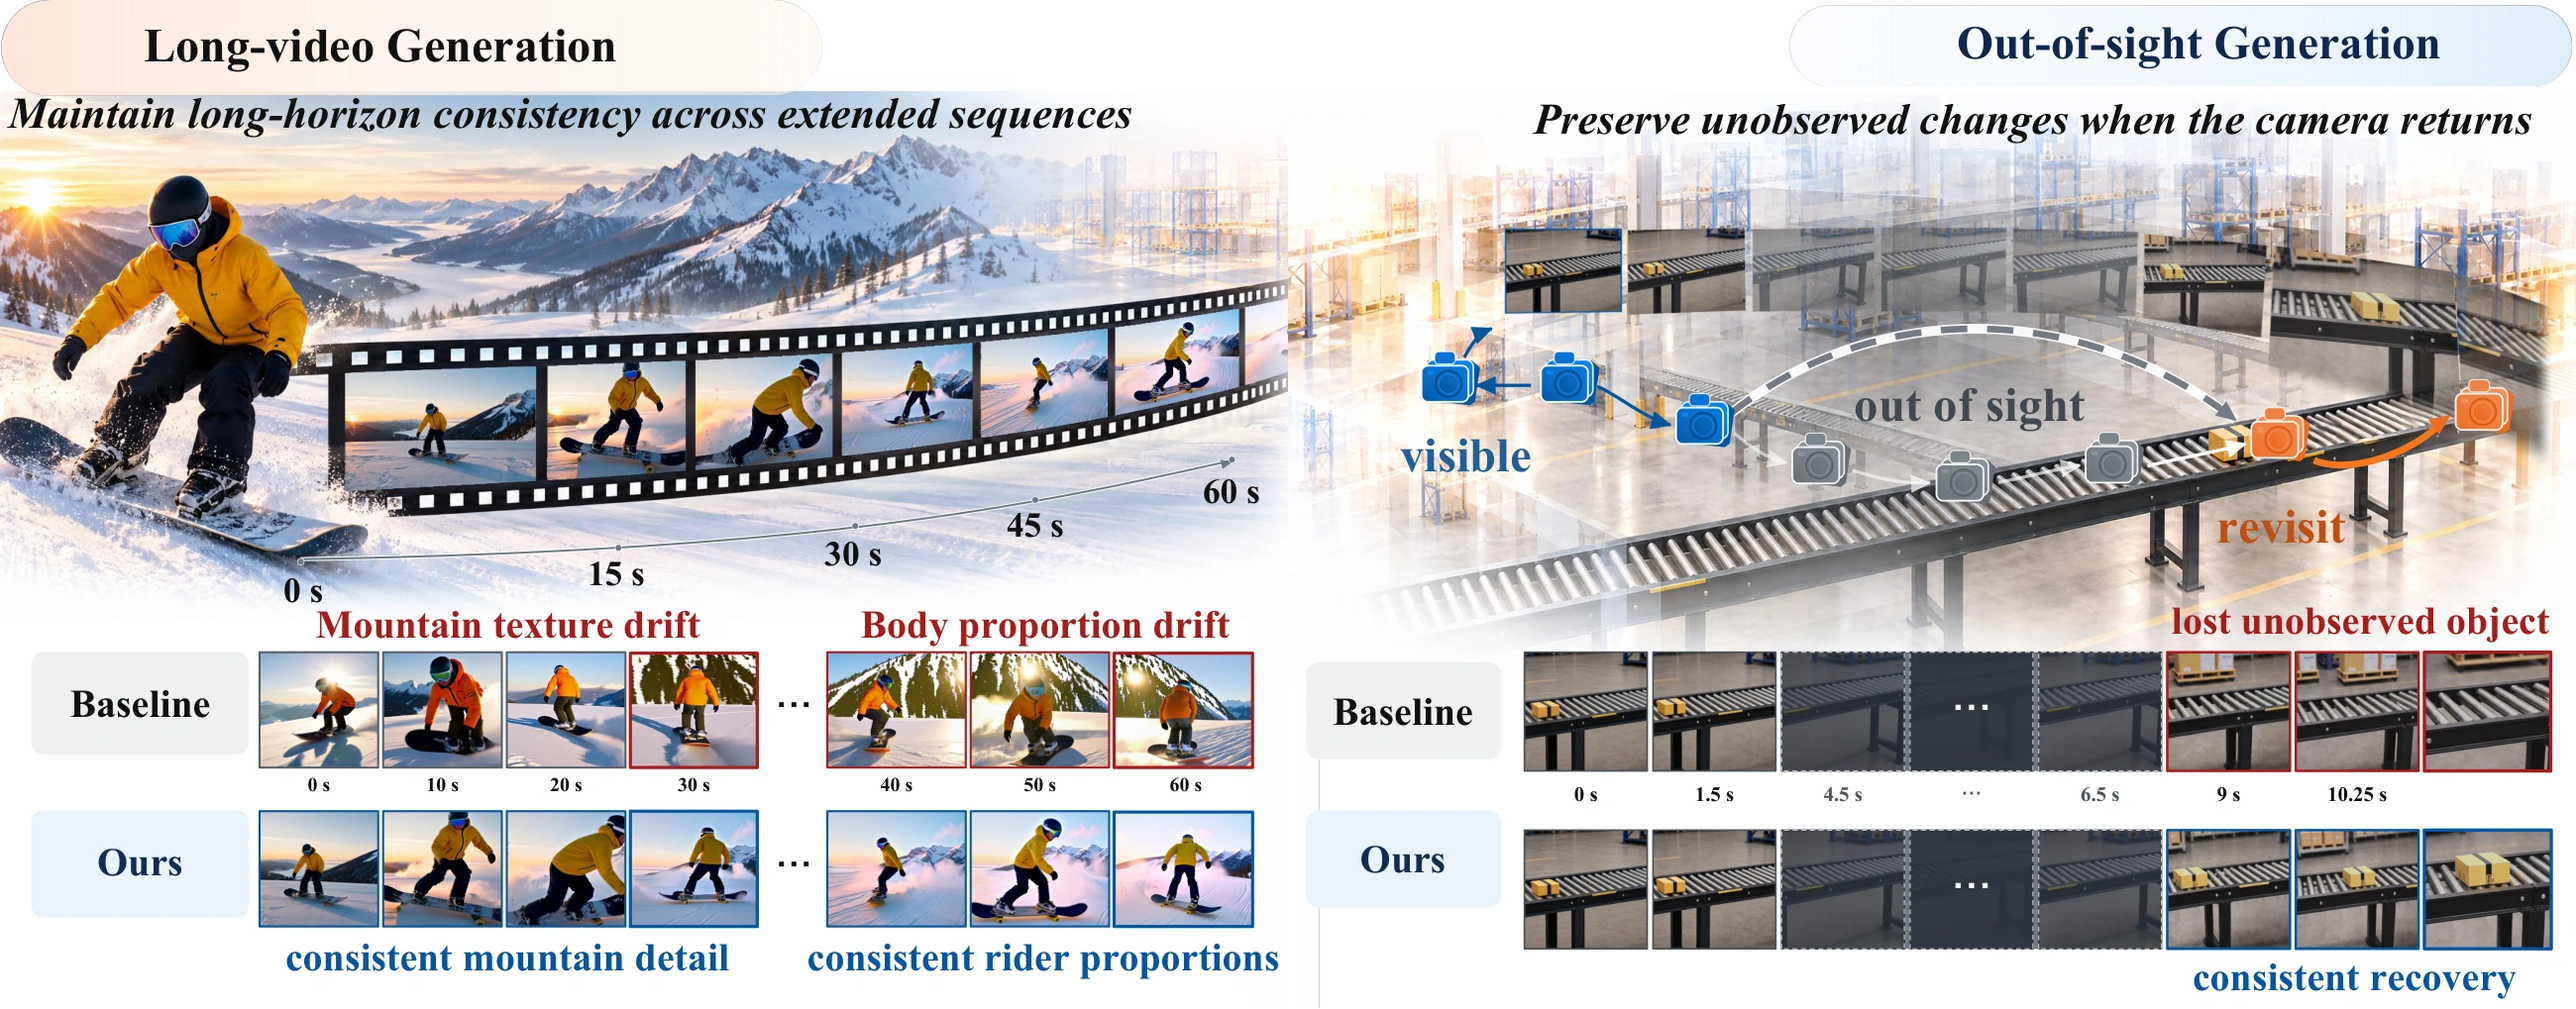
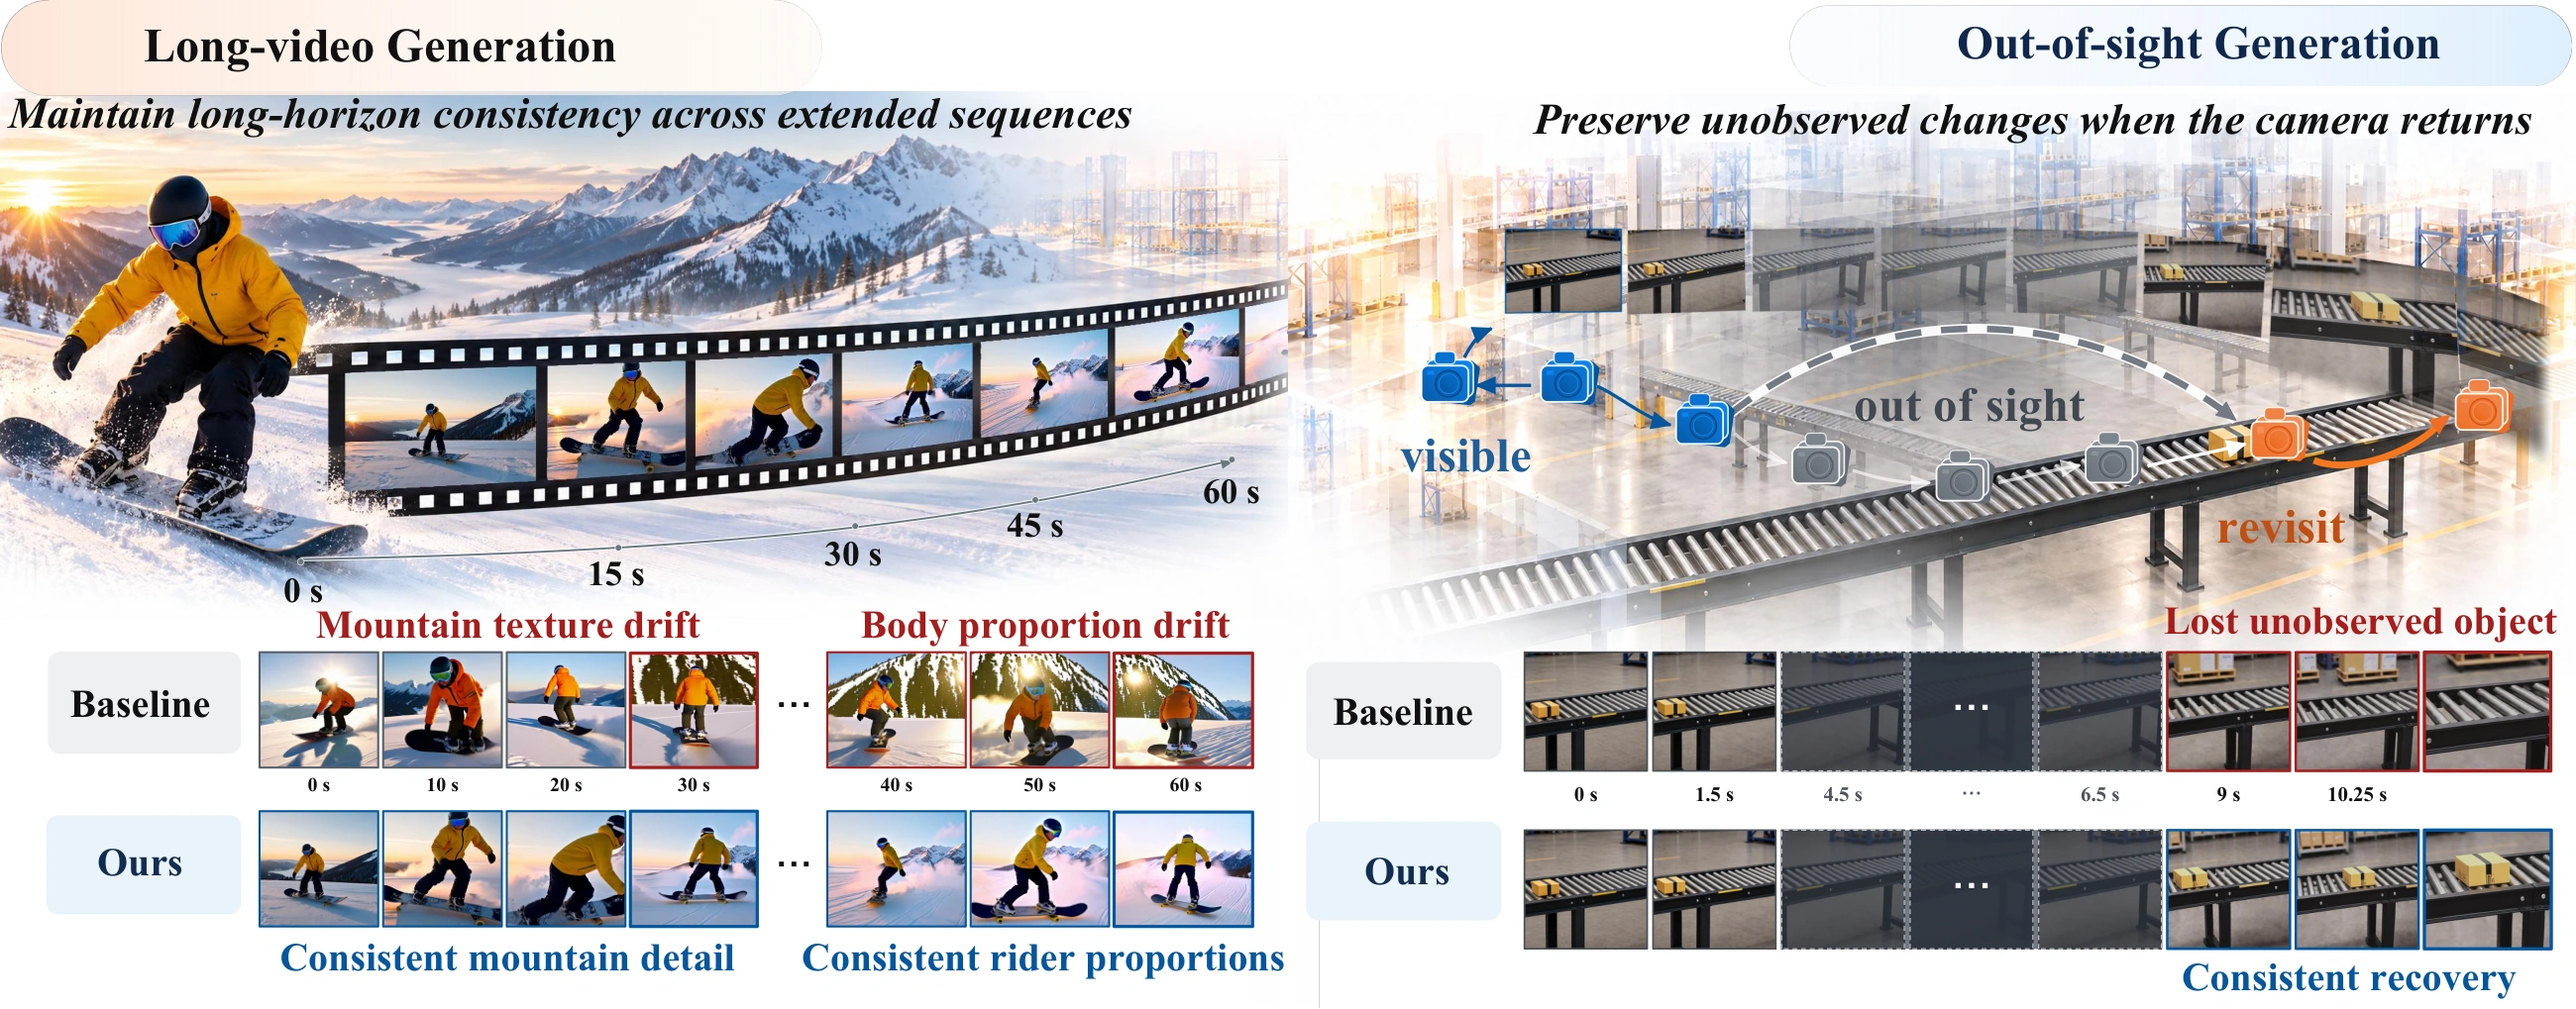
Refresh the homepage teaser from the updated paper figure

diff --git a/index.html b/index.html
@@ -8,7 +8,7 @@
   <meta property="og:title" content="History Forcing">
   <meta property="og:description" content="Distilling History-Dependent Continuations for Long-Horizon Video World Models">
   <meta property="og:type" content="website">
-  <meta property="og:image" content="https://xzxxntxdy.github.io/History-Forcing-Project-Page/assets/images/teaser.webp">
+  <meta property="og:image" content="https://xzxxntxdy.github.io/History-Forcing-Project-Page/assets/images/teaser.webp?v=ec9c76cc55c3">
   <meta property="og:url" content="https://xzxxntxdy.github.io/History-Forcing-Project-Page/">
   <link rel="canonical" href="https://xzxxntxdy.github.io/History-Forcing-Project-Page/">
   <title>History Forcing | Long-Horizon Video World Models</title>
@@ -36,14 +36,14 @@
       <p class="author-notes">* Equal contribution &nbsp; † Corresponding author</p>
       <div class="hero-actions"><span class="button primary paper-pending" aria-disabled="true"><svg viewBox="0 0 24 24" aria-hidden="true"><path d="M14 3H6a2 2 0 0 0-2 2v14a2 2 0 0 0 2 2h12a2 2 0 0 0 2-2V9zM14 3v6h6M8 13h8M8 17h6"/></svg>Paper <small>Coming soon</small></span><a class="button" href="#long-videos"><span aria-hidden="true">▷</span> Explore videos</a><a class="button" href="#citation"><span aria-hidden="true">{ }</span> BibTeX</a></div>
       <figure class="hero-teaser" id="teaser">
-        <a class="teaser-artwork" href="assets/images/teaser.webp" target="_blank" rel="noopener" aria-label="Open the full-size History Forcing teaser">
-          <img class="teaser-wide" src="assets/images/teaser.webp" alt="History Forcing compared with the baseline: consistent snowboarder appearance and mountain scenery over 60 seconds, and consistent object states when the camera returns to a conveyor belt." width="2600" height="1019" fetchpriority="high" decoding="async">
+        <a class="teaser-artwork" href="assets/images/teaser.webp?v=ec9c76cc55c3" target="_blank" rel="noopener" aria-label="Open the full-size History Forcing teaser">
+          <img class="teaser-wide" src="assets/images/teaser.webp?v=ec9c76cc55c3" alt="History Forcing compared with the baseline: consistent snowboarder appearance and mountain scenery over 60 seconds, and consistent object states when the camera returns to a conveyor belt." width="2600" height="1019" fetchpriority="high" decoding="async">
           <span class="teaser-mobile-panels" aria-hidden="true">
-            <span class="teaser-panel"><img src="assets/images/teaser.webp" alt="" width="2600" height="1019" decoding="async"></span>
-            <span class="teaser-panel"><img src="assets/images/teaser.webp" alt="" width="2600" height="1019" decoding="async"></span>
+            <span class="teaser-panel"><img src="assets/images/teaser.webp?v=ec9c76cc55c3" alt="" width="2600" height="1019" decoding="async"></span>
+            <span class="teaser-panel"><img src="assets/images/teaser.webp?v=ec9c76cc55c3" alt="" width="2600" height="1019" decoding="async"></span>
           </span>
         </a>
-        <figcaption><span>History Forcing preserves long-video consistency and models scene evolution beyond the camera’s view.</span><a href="assets/images/teaser.webp" target="_blank" rel="noopener">View full-size figure ↗</a></figcaption>
+        <figcaption><span>History Forcing preserves long-video consistency and models scene evolution beyond the camera’s view.</span><a href="assets/images/teaser.webp?v=ec9c76cc55c3" target="_blank" rel="noopener">View full-size figure ↗</a></figcaption>
       </figure>
       <div class="hero-reel" id="hero-reel" aria-label="Selected video previews"></div>
       <div class="reel-caption"><p>Remember what came before. Generate what comes next.</p><button class="text-button" id="preview-toggle" type="button" aria-pressed="false">Pause previews <span aria-hidden="true">Ⅱ</span></button></div>
